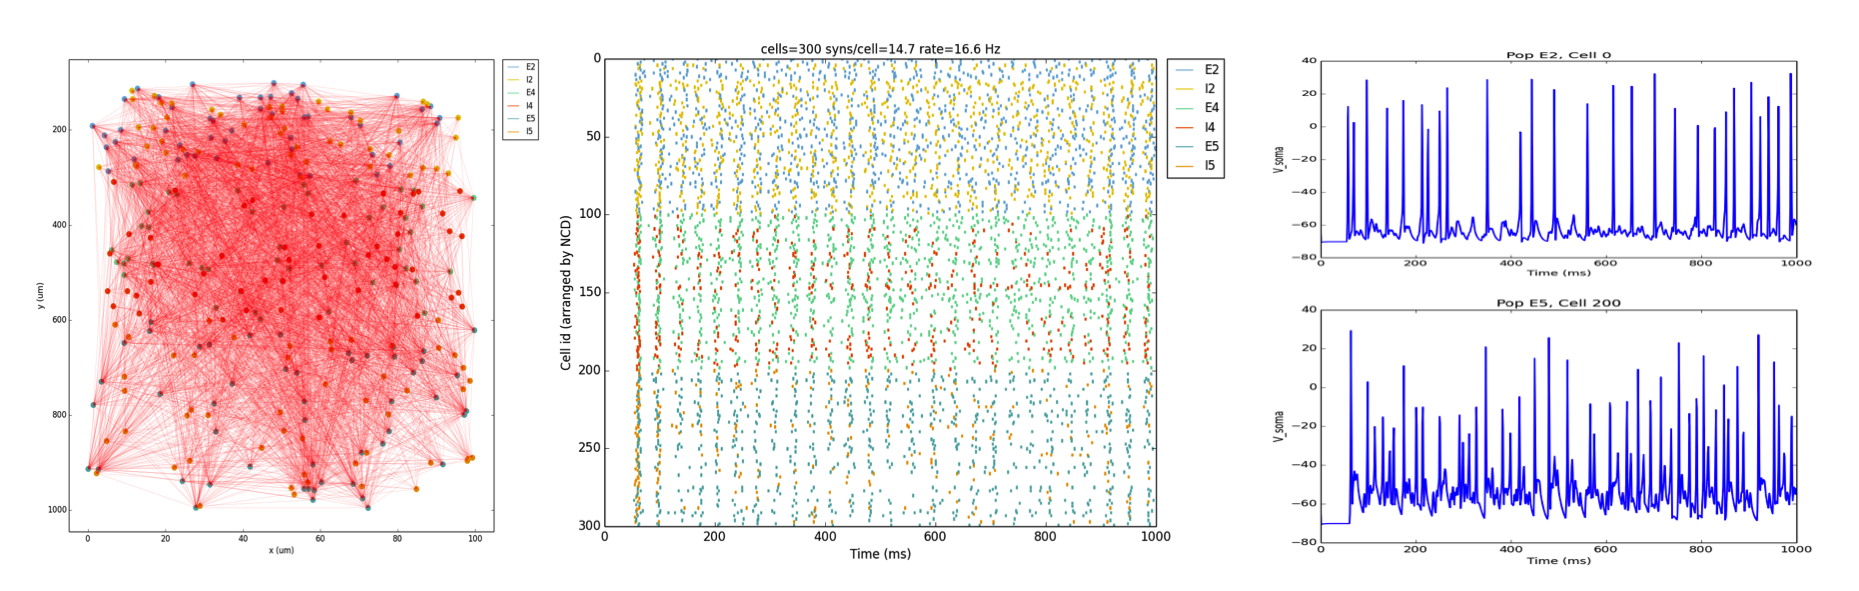
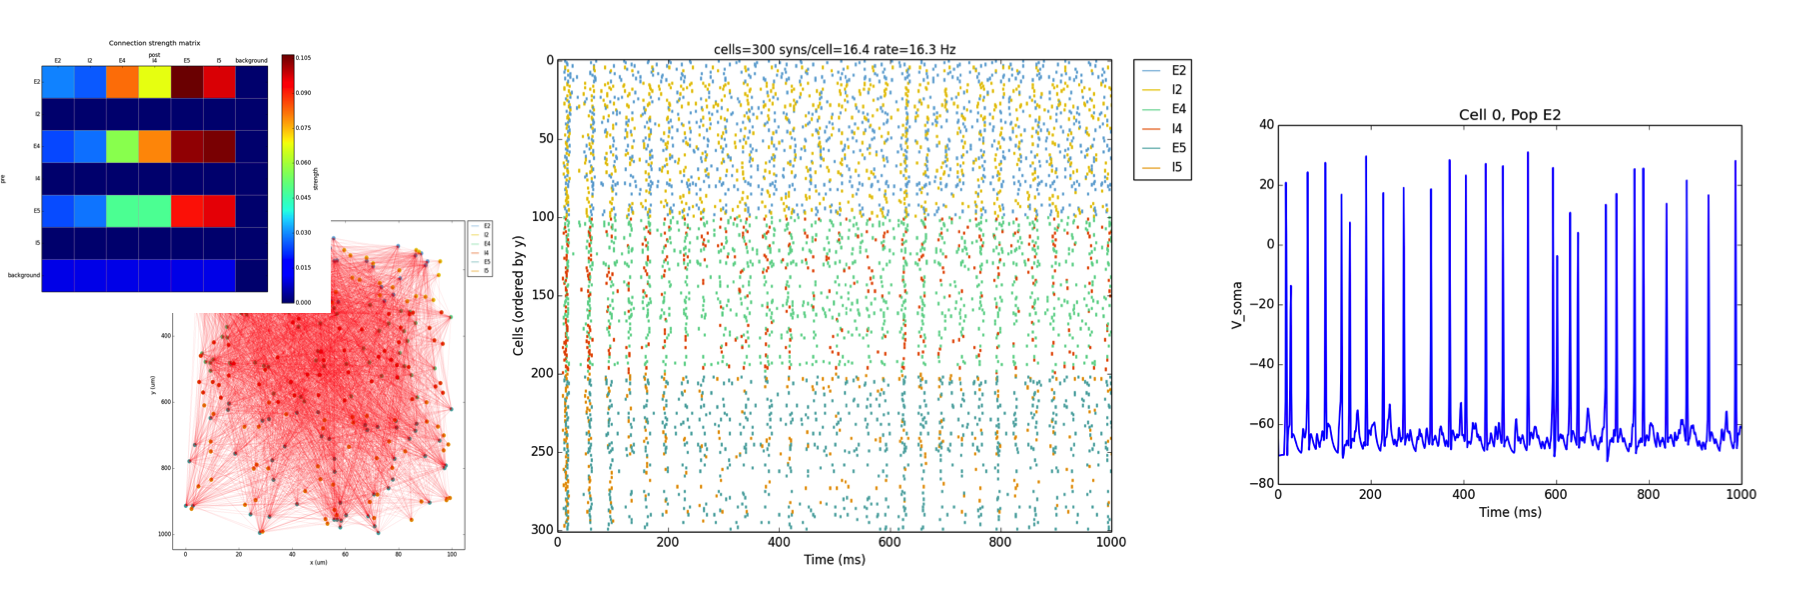
tested all examples and tuts with new analysis funcs -- debugged minor things

diff --git a/netpyne/analysis.py b/netpyne/analysis.py
@@ -165,11 +165,16 @@ def plotRaster (include = ['allCells'], timeRange = None, maxSpikes = 1e8, order
 
     # Select cells to include
     cells, cellGids, netStimPops = getCellsInclude(include)
-    popLabels = list(set(([cell['tags']['popLabel'] for cell in cells])))+netStimPops
+    selectedPops = [cell['tags']['popLabel'] for cell in cells]+netStimPops
+    popLabels = [pop.tags['popLabel'] for pop in sim.net.pops if pop.tags['popLabel'] in selectedPops] # preserves original ordering
     popColors = {popLabel: colorList[ipop%len(colorList)] for ipop,popLabel in enumerate(popLabels)} # dict with color for each pop
     if len(cellGids) > 0:
         gidColors = {cell['gid']: popColors[cell['tags']['popLabel']] for cell in cells}  # dict with color for each gid
-        spkgids,spkts = zip(*[(spkgid,spkt) for spkgid,spkt in zip(sim.allSimData['spkid'],sim.allSimData['spkt']) if spkgid in cellGids])
+        try:
+            spkgids,spkts = zip(*[(spkgid,spkt) for spkgid,spkt in zip(sim.allSimData['spkid'],sim.allSimData['spkt']) if spkgid in cellGids])
+        except:
+            print 'No spikes available to plot raster'
+            return None
         spkgidColors = [gidColors[spkgid] for spkgid in spkgids]
 
     # Order by
@@ -462,6 +467,7 @@ def plotTraces (include = [], timeRange = None, overlay = False, oneFigPer = 'ce
     tracesList = sim.cfg['recordTraces'].keys()
     tracesList.sort()
     cells, cellGids, _ = getCellsInclude(include)
+    gidPops = {cell['gid']: cell['tags']['popLabel'] for cell in cells}
 
     # time range
     if timeRange is None:
@@ -489,7 +495,7 @@ def plotTraces (include = [], timeRange = None, overlay = False, oneFigPer = 'ce
                     xlabel('Time (ms)', fontsize=fontsiz)
                     ylabel(trace, fontsize=fontsiz)
                     xlim(timeRange)
-                    if itrace==0: title('Cell %d'%(int(gid)))
+                    if itrace==0: title('Cell %d, Pop %s '%(int(gid), gidPops[gid]))
                     if overlay: legend()
 
 
@@ -511,7 +517,7 @@ def plotTraces (include = [], timeRange = None, overlay = False, oneFigPer = 'ce
                     plot(t[:len(data)], data, linewidth=1.5, color=color, label='Cell '+str(gid))
                     xlabel('Time (ms)', fontsize=fontsiz)
                     xlim(timeRange)
-                    title('Cell %d'%(int(gid)))
+                    title('Cell %d, Pop %s '%(int(gid), gidPops[gid]))
                     if overlay: legend()
 
     try:
@@ -789,7 +795,8 @@ def plot2Dnet (include = ['allCells'], figSize = (12,12), showConns = True, save
                 [0.71,0.82,0.41], [0.0,0.2,0.5]] 
 
     cells, cellGids, _ = getCellsInclude(include)           
-    popLabels = [pop.tags['popLabel'] for pop in sim.net.pops if pop.tags['cellModel'] not in ['NetStim']]
+    selectedPops = [cell['tags']['popLabel'] for cell in cells]
+    popLabels = [pop.tags['popLabel'] for pop in sim.net.pops if pop.tags['popLabel'] in selectedPops] # preserves original ordering
     popColors = {popLabel: colorList[ipop%len(colorList)] for ipop,popLabel in enumerate(popLabels)} # dict with color for each pop
     cellColors = [popColors[cell['tags']['popLabel']] for cell in cells]
     posX = [cell['tags']['x'] for cell in cells]  # get all x positions

diff --git a/doc/source/code/tut_import.py b/doc/source/code/tut_import.py
@@ -33,8 +33,8 @@ cellRule = {'label': 'PYR_HH3D_rule', 'conditions': {'cellType': 'PYR', 'cellMod
 utils.importCell(cellRule=cellRule, fileName='geom.hoc', cellName='E21')
 cellRule['sections']['soma']['mechs']['hh'] = {'gnabar': 0.12, 'gkbar': 0.036, 'gl': 0.003, 'el': -70}  		# soma hh mechanism
 for secName in cellRule['sections']:
-	cellRule['sections'][secName]['mechs']['pas'] = {'g': 0.0000357, 'e': -70}
-	cellRule['sections'][secName]['geom']['cm'] = 10
+ 	cellRule['sections'][secName]['mechs']['pas'] = {'g': 0.0000357, 'e': -70}
+ 	cellRule['sections'][secName]['geom']['cm'] = 1
 netParams['cellParams'].append(cellRule)  
 
 ### Traub
@@ -88,21 +88,14 @@ netParams['synMechParams'].append({'label': 'AMPA', 'mod': 'Exp2Syn', 'tau1': 1.
 netParams['connParams'] = []  
 
 netParams['connParams'].append({
-	'preTags': {'popLabel': 'background'}, 'postTags': {'cellType': 'PYR', 'cellModel': ['Traub', 'Mainen']}, # background -> PYR (weight=0.001)
-	'connFunc': 'fullConn', 	# connectivity function (all-to-all)
-	'weight': 0.001, 			# synaptic weight 
-	'delay': 5,					# transmission delay (ms) 
-	'sec': 'soma'})		
-
-netParams['connParams'].append({
-	'preTags': {'popLabel': 'background'}, 'postTags': {'cellType': 'PYR', 'cellModel': ['HH', 'HH3D', 'Izhi2003b', 'Izhi2007b']}, # background -> PYR (weight=0.1)
+	'preTags': {'popLabel': 'background'}, 'postTags': {'cellType': 'PYR', 'cellModel': ['Traub', 'HH', 'Mainen', 'Izhi2003b', 'Izhi2007b']}, # background -> PYR (weight=0.1)
 	'connFunc': 'fullConn', 	# connectivity function (all-to-all)
 	'weight': 0.1, 			# synaptic weight 
 	'delay': 5,					# transmission delay (ms) 
 	'sec': 'soma'})		
 
 netParams['connParams'].append({
-	'preTags': {'popLabel': 'background'}, 'postTags': {'cellType': 'PYR', 'cellModel': ['Friesen', 'Izhi2003a', 'Izhi2007a']}, # background -> PYR (weight = 10)
+	'preTags': {'popLabel': 'background'}, 'postTags': {'cellType': 'PYR', 'cellModel': ['HH3D','Friesen','Izhi2003a', 'Izhi2007a']}, # background -> PYR (weight = 10)
 	'connFunc': 'fullConn', 	# connectivity function (all-to-all)
 	'weight': 5, 				# synaptic weight 
 	'delay': 5,					# transmission delay (ms) 
@@ -127,8 +120,10 @@ simConfig['recordTraces'] = {'V_soma':{'sec':'soma','loc':0.5,'var':'v'}}  # Dic
 simConfig['recordStep'] = 1 			# Step size in ms to save data (eg. V traces, LFP, etc)
 simConfig['filename'] = 'model_output'  # Set file output name
 simConfig['savePickle'] = False 		# Save params, network and sim output to pickle file
-simConfig['plotRaster'] = True 			# Plot a raster
-simConfig['plotCells'] = [1] 			# Plot recorded traces for this list of cells
+
+simConfig['analysis'] = {}
+simConfig['analysis']['plotRaster'] = {'orderInverse': True}			# Plot a raster
+simConfig['analysis']['plotTraces'] = {'include': [0]} 			# Plot recorded traces for this list of cells
 
 
 # Create network and run simulation

diff --git a/doc/source/code/tut5.py b/doc/source/code/tut5.py
@@ -73,11 +73,24 @@ simConfig['recordTraces'] = {'V_soma':{'sec':'soma','loc':0.5,'var':'v'}}  # Dic
 simConfig['recordStep'] = 1             # Step size in ms to save data (eg. V traces, LFP, etc)
 simConfig['filename'] = 'model_output'  # Set file output name
 simConfig['savePickle'] = False         # Save params, network and sim output to pickle file
-simConfig['plotRaster'] = True          # Plot a raster
-simConfig['orderRasterYnorm'] = 1       # Order cells in raster by yfrac (default is by pop and cell id)
-simConfig['plotCells'] = ['E2','E4','E5']    # Plot recorded traces for this list of cells
-simConfig['plot2Dnet'] = True           # plot 2D visualization of cell positions and connections
 
+# simConfig['analysis'] = {}
+# simConfig['analysis']['plotRaster'] = {'orderBy': 'y', 'orderInverse': True}      # Plot a raster
+# simConfig['analysis']['plotTraces'] = {'include': [('E2',0), ('E4', 0), ('E5', 0)]}      # Plot recorded traces for this list of cells
+# simConfig['analysis']['plot2Dnet'] = True           # plot 2D visualization of cell positions and connections
+# simConfig['analysis']['plotConn'] = True           # plot connectivity matrix
+
+# Examples of analysis functions
+simConfig['analysis'] = {}
+simConfig['analysis']['plotRaster'] = {'orderBy': 'y', 'orderInverse': True}      # Plot a raster
+simConfig['analysis']['plotTraces'] = {'include': [('E2',0), ('E4', 0), ('E5', 0)]}      # Plot recorded traces for this list of cells
+simConfig['analysis']['plot2Dnet'] = True           # plot 2D visualization of cell positions and connections
+simConfig['analysis']['plotConn'] = True           # plot connectivity matrix
+
+
+
+* **analysis.plotRaster** (include = ['allCells'], timeRange = None, maxSpikes = 1e8, orderBy = 'gid', orderInverse = False, spikeHist = None, spikeHistBin = 10, syncLines = False, figSize = (10,8), saveData = None, saveFig = None, showFig = True) 
+    
 
 # Create network and run simulation
 sim.createAndSimulate(netParams = netParams, simConfig = simConfig)    

diff --git a/doc/source/code/tut6.py b/doc/source/code/tut6.py
@@ -66,10 +66,12 @@ simConfig['recordTraces'] = {'V_soma':{'sec':'soma','loc':0.5,'var':'v'}}  # Dic
 simConfig['recordStep'] = 1 			# Step size in ms to save data (eg. V traces, LFP, etc)
 simConfig['filename'] = 'model_output'  # Set file output name
 simConfig['savePickle'] = False 		# Save params, network and sim output to pickle file
-simConfig['plotRaster'] = True 			# Plot a raster
-simConfig['plotSync'] = True  # add vertical lines for all spikes as an indication of synchrony
-simConfig['plotCells'] = [1] 			# Plot recorded traces for this list of cells
-simConfig['plot2Dnet'] = True           # plot 2D visualization of cell positions and connections
+
+simConfig['analysis'] = {}
+simConfig['analysis']['plotRaster'] = {'syncLines': True}      # Plot a raster
+simConfig['analysis']['plotTraces'] = {'include': [1]}      # Plot recorded traces for this list of cells
+simConfig['analysis']['plot2Dnet'] = True           # plot 2D visualization of cell positions and connections
+
 
 
 ###############################################################################

diff --git a/doc/source/code/tut2.py b/doc/source/code/tut2.py
@@ -48,9 +48,11 @@ simConfig['recordTraces'] = {'V_soma':{'sec':'soma','loc':0.5,'var':'v'}}  # Dic
 simConfig['recordStep'] = 1 			# Step size in ms to save data (eg. V traces, LFP, etc)
 simConfig['filename'] = 'model_output'  # Set file output name
 simConfig['savePickle'] = False 		# Save params, network and sim output to pickle file
-simConfig['plotRaster'] = True 			# Plot a raster
-simConfig['plotCells'] = [1] 			# Plot recorded traces for this list of cells
-simConfig['plot2Dnet'] = True           # plot 2D visualization of cell positions and connections
+
+simConfig['analysis'] = {}
+simConfig['analysis']['plotRaster'] = True 			# Plot a raster
+simConfig['analysis']['plotTraces'] = {'include': [1]} 			# Plot recorded traces for this list of cells
+simConfig['analysis']['plot2Dnet'] = True           # plot 2D visualization of cell positions and connections
 
 
 # Create network and run simulation

diff --git a/doc/source/code/tut3.py b/doc/source/code/tut3.py
@@ -52,9 +52,11 @@ simConfig['recordTraces'] = {'V_soma':{'sec':'soma','loc':0.5,'var':'v'}}  # Dic
 simConfig['recordStep'] = 1 			# Step size in ms to save data (eg. V traces, LFP, etc)
 simConfig['filename'] = 'model_output'  # Set file output name
 simConfig['savePickle'] = False 		# Save params, network and sim output to pickle file
-simConfig['plotRaster'] = True 			# Plot a raster
-simConfig['plotCells'] = [1]	 		# Plot recorded traces for this list of cells
-simConfig['plot2Dnet'] = True           # plot 2D visualization of cell positions and connections
+
+simConfig['analysis'] = {}
+simConfig['analysis']['plotRaster'] = True 			# Plot a raster
+simConfig['analysis']['plotTraces'] = {'include': [1]} 			# Plot recorded traces for this list of cells
+simConfig['analysis']['plot2Dnet'] = True           # plot 2D visualization of cell positions and connections
 
 
 # Create network and run simulation

diff --git a/doc/source/code/tut4.py b/doc/source/code/tut4.py
@@ -59,9 +59,11 @@ simConfig['recordTraces'] = {'V_soma':{'sec':'soma','loc':0.5,'var':'v'}}  # Dic
 simConfig['recordStep'] = 1 			# Step size in ms to save data (eg. V traces, LFP, etc)
 simConfig['filename'] = 'model_output'  # Set file output name
 simConfig['savePickle'] = False 		# Save params, network and sim output to pickle file
-simConfig['plotRaster'] = True 			# Plot a raster
-simConfig['plotCells'] = [1] 			# Plot recorded traces for this list of cells
-simConfig['plot2Dnet'] = True           # plot 2D visualization of cell positions and connections
+
+simConfig['analysis'] = {}
+simConfig['analysis']['plotRaster'] = True 			# Plot a raster
+simConfig['analysis']['plotTraces'] = {'include': [1]} 			# Plot recorded traces for this list of cells
+simConfig['analysis']['plot2Dnet'] = True           # plot 2D visualization of cell positions and connections
 
 
 # Create network and run simulation

diff --git a/netpyne/cell.py b/netpyne/cell.py
@@ -316,7 +316,6 @@ class Cell (object):
 
     def addNetStim (self, params):
         self.stims.append(params.copy())  # add new stim to Cell object
-
         if params['source'] == 'random':
             rand = h.Random()
             #rand.Random123(self.gid,self.gid*2) # moved to sim.runSim() to ensure reproducibility
@@ -341,6 +340,7 @@ class Cell (object):
             netstim.noiseFromRandom(rand)  # use random number generator
             netstim.number = params['number']   
             self.stims[-1]['hNetStim'] = netstim  # add netstim object to dict in stim list
+
         if sim.cfg['verbose']: print('Created %s NetStim for cell gid=%d'% (params['label'], self.gid))
 
         return self.stims[-1]['hNetStim']

diff --git a/netpyne/simFuncs.py b/netpyne/simFuncs.py
@@ -317,6 +317,13 @@ def setupRecording ():
     sim.pc.spike_record(-1, sim.simData['spkt'], sim.simData['spkid']) # -1 means to record from all cells on this node
 
     # stim spike recording
+    if isinstance(sim.cfg['analysis']['plotRaster'],dict) and 'include' in sim.cfg['analysis']['plotRaster']:
+        netStimPops = [pop.tags['popLabel'] for pop in sim.net.pops if pop.tags['cellModel']=='NetStim']+['allNetStims']
+        for item in sim.cfg['analysis']['plotRaster']['include']:
+            if item in netStimPops: 
+                sim.cfg['recordStim'] = True
+                break
+                  
     if sim.cfg['recordStim']:
         sim.simData['stims'] = {}
         for cell in sim.net.cells: 

diff --git a/examples/M1/M1.py b/examples/M1/M1.py
@@ -58,7 +58,7 @@ simConfig['saveHDF5'] = False # save to HDF5 file
 
 # Analysis and plotting 
 simConfig['analysis'] = {}
-simConfig['analysis']['plotRaster'] = {'orderBy':'y'} # Whether or not to plot a raster
+simConfig['analysis']['plotRaster'] = True # Whether or not to plot a raster
 simConfig['analysis']['plotTraces'] = {'include': [('IT_L23',1) ,('PT_L5B',1), ('PV_L23',1), ('SOM_L5',1)]} # plot recorded traces for this list of cells
 simConfig['analysis']['plot2Dnet'] = {'showConns': False}
 

diff --git a/netpyne/__init__.py b/netpyne/__init__.py
@@ -1,2 +1,2 @@
 
-__version__ = '0.4.8'
+__version__ = '0.4.9'

diff --git a/doc/source/tutorial.rst b/doc/source/tutorial.rst
@@ -424,7 +424,7 @@ In terms of connectivity, we'll start by adding background inputs to all cell in
 	  'synMech': 'exc'})                  # synaptic mechanism 
 
 
-We can now add the standard simulation configuration options and the code to create and run the network. Notice that we have chosen to record and plot voltage traces of one cell in each of the excitatory populations (``simConfig['plotCells'] = ['E2','E4','E5']``), plot the raster ordered based on cell cortical depth (``simConfig['orderRasterYnorm'] = 1``), and show a 2D visualization of cell positions and connections (``simConfig['plot2Dnet'] = True``)::
+We can now add the standard simulation configuration options and the code to create and run the network. Notice that we have chosen to record and plot voltage traces of one cell in each of the excitatory populations (simConfig['analysis']['plotTraces'] = {'include': [('E2',0), ('E4',0), ('E5',0)]}```), plot the raster ordered based on cell cortical depth (``simConfig['analysis']['plotRaster'] = {'orderBy': 'ynorm'} ``), show a 2D visualization of cell positions and connections (``simConfig['analysis']['plot2Dnet']``), and the connectivity matrix (`simConfig['analysis']['plotConn'] = True``) ::
 
 	# Simulation options
 	simConfig = {}
@@ -440,6 +440,7 @@ We can now add the standard simulation configuration options and the code to cre
 	simConfig['analysis']['plotRaster'] = {'orderBy': 'ynorm'}          # Plot a raster
 	simConfig['analysis']['plotTraces'] = {'include': [('E2',0), ('E4',0), ('E5',0)]}    # Plot recorded traces for this list of cells
 	simConfig['analysis']['plot2Dnet'] = True           # plot 2D visualization of cell positions and connections
+	simConfig['analysis']['plotConn'] = True           # plot connectivity matrix
 
 	# Create network and run simulation
 	sim.createAndSimulate(netParams = netParams, simConfig = simConfig)    
@@ -588,7 +589,7 @@ Finally, we add the code to create the network and run the simulation, but for i
 	sim.analysis.plotData()                   # plot spike raster
 
 
-If we run the above code, the resulting network 2D map shows the inhibitory connections in blue, although these don't yet have any effect since the weight is 0. The raster plot shows random firing driven by the 50 Hz background inputs, and a low sync measure of 0.37 (vertical red lines illustrate poor synchrony):
+If we run the above code, the resulting network 2D map shows the inhibitory connections in blue, although these don't yet have any effect since the weight is 0. The raster plot shows random firing driven by the 50 Hz background inputs, and a low sync measure of 0.28 (vertical red lines illustrate poor synchrony):
 
 .. image:: figs/tut6_1.png
 	:width: 100%
@@ -627,7 +628,7 @@ Given the information above, we can now create a simple function ``changeWeights
 	sim.analysis.plotData()                   # plot spike raster
 
 
-The resulting plots show that the increased mutual inhibitions synchronizes the network activity, increasing the synchrony measure to 0.72:
+The resulting plots show that the increased mutual inhibitions synchronizes the network activity, increasing the synchrony measure to 0.67:
 
 .. image:: figs/tut6_2.png
 	:width: 70%
